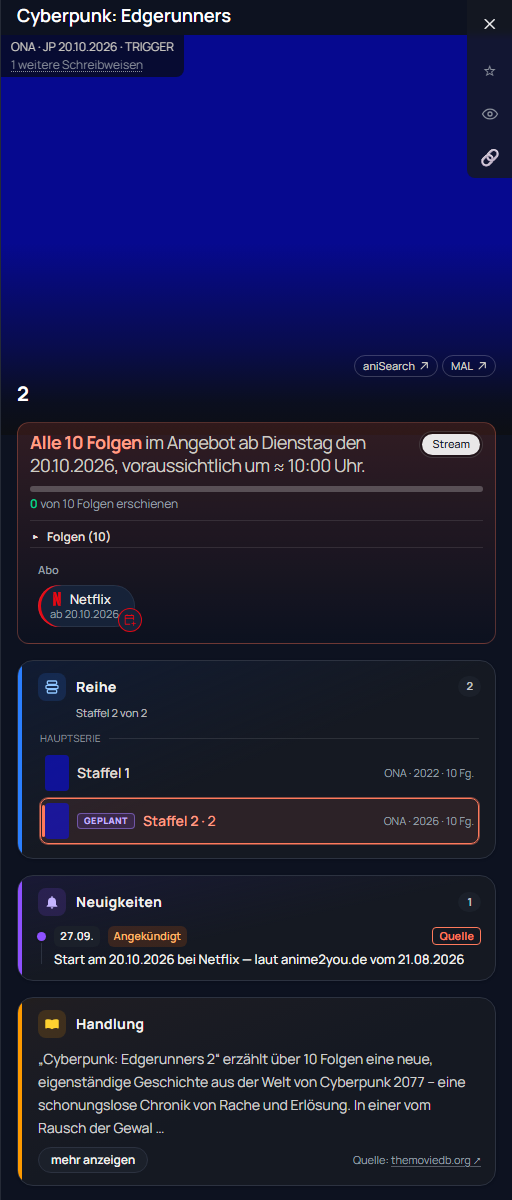
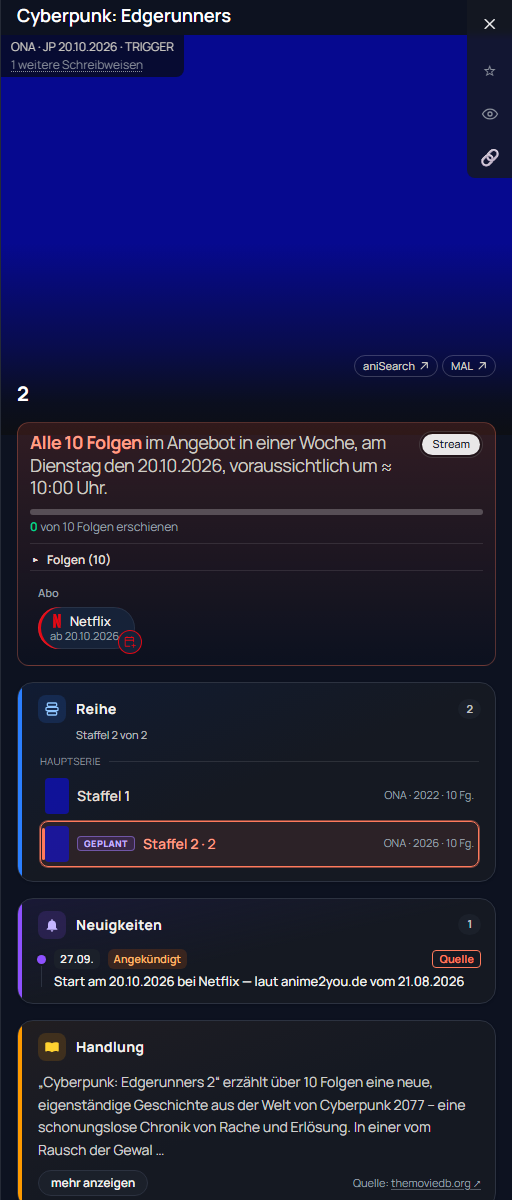
Detail-Panel: Countdown bis zur nächsten Folge (#832)
* Detail-Panel: Countdown bis zur nächsten Folge (morgen, Tage, Wochen, Monate, Jahre)

„Erscheint in 3 Tagen / in 2 Wochen / in einem Monat, am …" bei jedem Abstand statt nur bis 6 Tage.
Grobe Einheit zentral in shared/time.ts (abstandGrob), Satzform in web/src/lib/abstand.ts, damit
andere Stellen sie nutzen können. Grenzen nach Daniel: ab 7 Tagen Wochen, ab 4,5 Wochen Monate,
ab 365 Tagen Jahre, abgerundet; Prüfung pipeline/check-abstand.ts.

* Nur das Panel-Bild mit Countdown behalten, übrige Screenshots unverändert

* erweiterung.md auf Stand des Abzweigs zurück

---------

Changed region(s): [[0.0312, 0.3392, 0.9375, 1.0], [0.9375, 0.5242, 0.9688, 0.555], [0.0312, 0.9867, 0.0625, 1.0]]

diff --git a/web/src/components/detail/antwort-kasten.tsx b/web/src/components/detail/antwort-kasten.tsx
@@ -12,6 +12,7 @@ import { VermerkAuskunft } from './vermerk.tsx'
 import { Umschalter } from './umschalter.tsx'
 import { gruppeVon as gruppeVonPille, sichtbareStreamPillen } from './stream-pillen.ts'
 import { deSeitQuelleSchluessel, erstausgabeAlsNeuigkeit, terminSatz, ungefaehr, fertigZahlText } from './antwort-regeln.ts'
+import { abstandImSatz } from '../../lib/abstand.ts'
 import { type Antwort } from './antwort-typ.ts'
 
 /**
@@ -269,17 +270,9 @@ export function AntwortKasten({
   /*
     Dieselbe Angabe, aber kleingeschrieben: Sie steht jetzt mitten im Satz
     („erscheint in 2 Tagen, am …") statt am Satzanfang. Ein großes „Heute"
-    dort liest sich wie ein Fehler.
+    dort liest sich wie ein Fehler. Der Countdown steht bei jedem Abstand (`abstandImSatz`).
   */
-  const relativImSatz = (datum: string): string => {
-    const tage = Math.round(
-      (new Date(`${datum}T12:00:00Z`).getTime() - new Date(`${today}T12:00:00Z`).getTime()) / 86400000,
-    )
-    if (tage <= 0) return T('antwort.relHeute')
-    if (tage === 1) return T('antwort.relMorgen')
-    if (tage <= 6) return T('antwort.relInTagen', { count: tage })
-    return ''
-  }
+  const relativImSatz = (datum: string): string => abstandImSatz(today, datum, T)
   /** Was hervorgehoben wird, trägt die Akzentfarbe des Kastens. */
   const betont = (text: string): ReactNode => (
     <span className="text-sky-700 dark:text-sky-300">{text}</span>

diff --git a/web/src/lib/i18n.tsx b/web/src/lib/i18n.tsx
@@ -530,8 +530,7 @@ const TEXTE = {
   'antwort.finaleFolgeNr': 'Finale Folge (Folge {n})',
   'antwort.finaleFolge': 'Finale Folge',
   'antwort.erscheintRelativ': 'erscheint {rel}, am {tag} den {datum}.',
-  // Ab einer Woche Abstand rechnet niemand mehr in Tagen — dann trägt das
-  // Datum allein.
+  // Ohne relative Angabe (Kino, Angebot) trägt das Datum allein.
   'antwort.erscheintDatum': 'erscheint am {tag} den {datum}.',
   // Die Uhrzeit hängt hinten an, wo eine bekannt ist — „voraussichtlich", weil
   // der einzelne Termin aus dem gemessenen Rhythmus fortgeschrieben ist.
@@ -565,6 +564,12 @@ const TEXTE = {
   'antwort.relHeute': 'heute',
   'antwort.relMorgen': 'morgen',
   'antwort.relInTagen': 'in {count} Tagen',
+  'antwort.relInEinerWoche': 'in einer Woche',
+  'antwort.relInWochen': 'in {count} Wochen',
+  'antwort.relInEinemMonat': 'in einem Monat',
+  'antwort.relInMonaten': 'in {count} Monaten',
+  'antwort.relInEinemJahr': 'in einem Jahr',
+  'antwort.relInJahren': 'in {count} Jahren',
   // Ohne Wochentag: der Rhythmus sagt nur noch die Frequenz, der Tag steht in
   // der Überschrift.
   'antwort.rhythmusWoechentlichKurz': 'Wöchentlich',

diff --git a/shared/time.ts b/shared/time.ts
@@ -99,6 +99,21 @@ export function diffDays(a: string, b: string): number {
   return Math.round((p(b) - p(a)) / 86400000)
 }
 
+export type AbstandEinheit = 'heute' | 'morgen' | 'tage' | 'wochen' | 'monate' | 'jahre'
+
+/**
+ * Abstand in Tagen als grobe Angabe, abgerundet: Tage, ab 7 Tagen Wochen, ab 4,5 Wochen Monate,
+ * ab 365 Tagen Jahre (Daniel, 11.10.2026). Vergangenes zählt als „heute".
+ */
+export function abstandGrob(tage: number): { einheit: AbstandEinheit; anzahl: number } {
+  if (tage <= 0) return { einheit: 'heute', anzahl: 0 }
+  if (tage === 1) return { einheit: 'morgen', anzahl: 1 }
+  if (tage < 7) return { einheit: 'tage', anzahl: tage }
+  if (tage < 31.5) return { einheit: 'wochen', anzahl: Math.floor(tage / 7) }
+  if (tage < 365) return { einheit: 'monate', anzahl: Math.max(1, Math.floor(tage / 30.44)) }
+  return { einheit: 'jahre', anzahl: Math.floor(tage / 365) }
+}
+
 /** 0 = Montag … 6 = Sonntag. */
 export function weekdayIndex(iso: string): number {
   const [y, m, d] = iso.split('-').map(Number)

diff --git a/web/src/lib/abstand.ts b/web/src/lib/abstand.ts
@@ -1,0 +1,14 @@
+import { abstandGrob, diffDays } from '@shared/time.ts'
+
+type Uebersetze = (k: string, v?: Record<string, string | number>) => string
+
+/** Countdown für die Satzmitte („erscheint in 2 Wochen, am …"), kleingeschrieben. */
+export function abstandImSatz(heute: string, datum: string, T: Uebersetze): string {
+  const { einheit, anzahl } = abstandGrob(diffDays(heute, datum))
+  if (einheit === 'heute') return T('antwort.relHeute')
+  if (einheit === 'morgen') return T('antwort.relMorgen')
+  if (einheit === 'tage') return T('antwort.relInTagen', { count: anzahl })
+  if (einheit === 'wochen') return anzahl === 1 ? T('antwort.relInEinerWoche') : T('antwort.relInWochen', { count: anzahl })
+  if (einheit === 'monate') return anzahl === 1 ? T('antwort.relInEinemMonat') : T('antwort.relInMonaten', { count: anzahl })
+  return anzahl === 1 ? T('antwort.relInEinemJahr') : T('antwort.relInJahren', { count: anzahl })
+}

diff --git a/pipeline/check-abstand.ts b/pipeline/check-abstand.ts
@@ -1,0 +1,23 @@
+/**
+ * Zusicherungen zum groben Abstand (11.10.2026, Daniel): Tage, ab 7 Tagen Wochen, ab 4,5 Wochen
+ * Monate, ab 365 Tagen Jahre, jeweils abgerundet. Läuft in `check:logic`.
+ */
+import { abstandGrob } from '../shared/time.ts'
+
+let fehler = 0
+const faelle: [number, string][] = [
+  [-3, 'heute 0'], [0, 'heute 0'], [1, 'morgen 1'], [2, 'tage 2'], [6, 'tage 6'],
+  [7, 'wochen 1'], [13, 'wochen 1'], [14, 'wochen 2'], [31, 'wochen 4'],
+  [32, 'monate 1'], [60, 'monate 1'], [61, 'monate 2'], [364, 'monate 11'],
+  [365, 'jahre 1'], [729, 'jahre 1'], [730, 'jahre 2'],
+]
+for (const [tage, soll] of faelle) {
+  const { einheit, anzahl } = abstandGrob(tage)
+  if (`${einheit} ${anzahl}` !== soll) {
+    fehler++
+    console.error(`FEHLER: ${tage} Tage → ${einheit} ${anzahl}, erwartet ${soll}`)
+  }
+}
+
+if (fehler) process.exit(1)
+console.log('check-abstand: ok')
